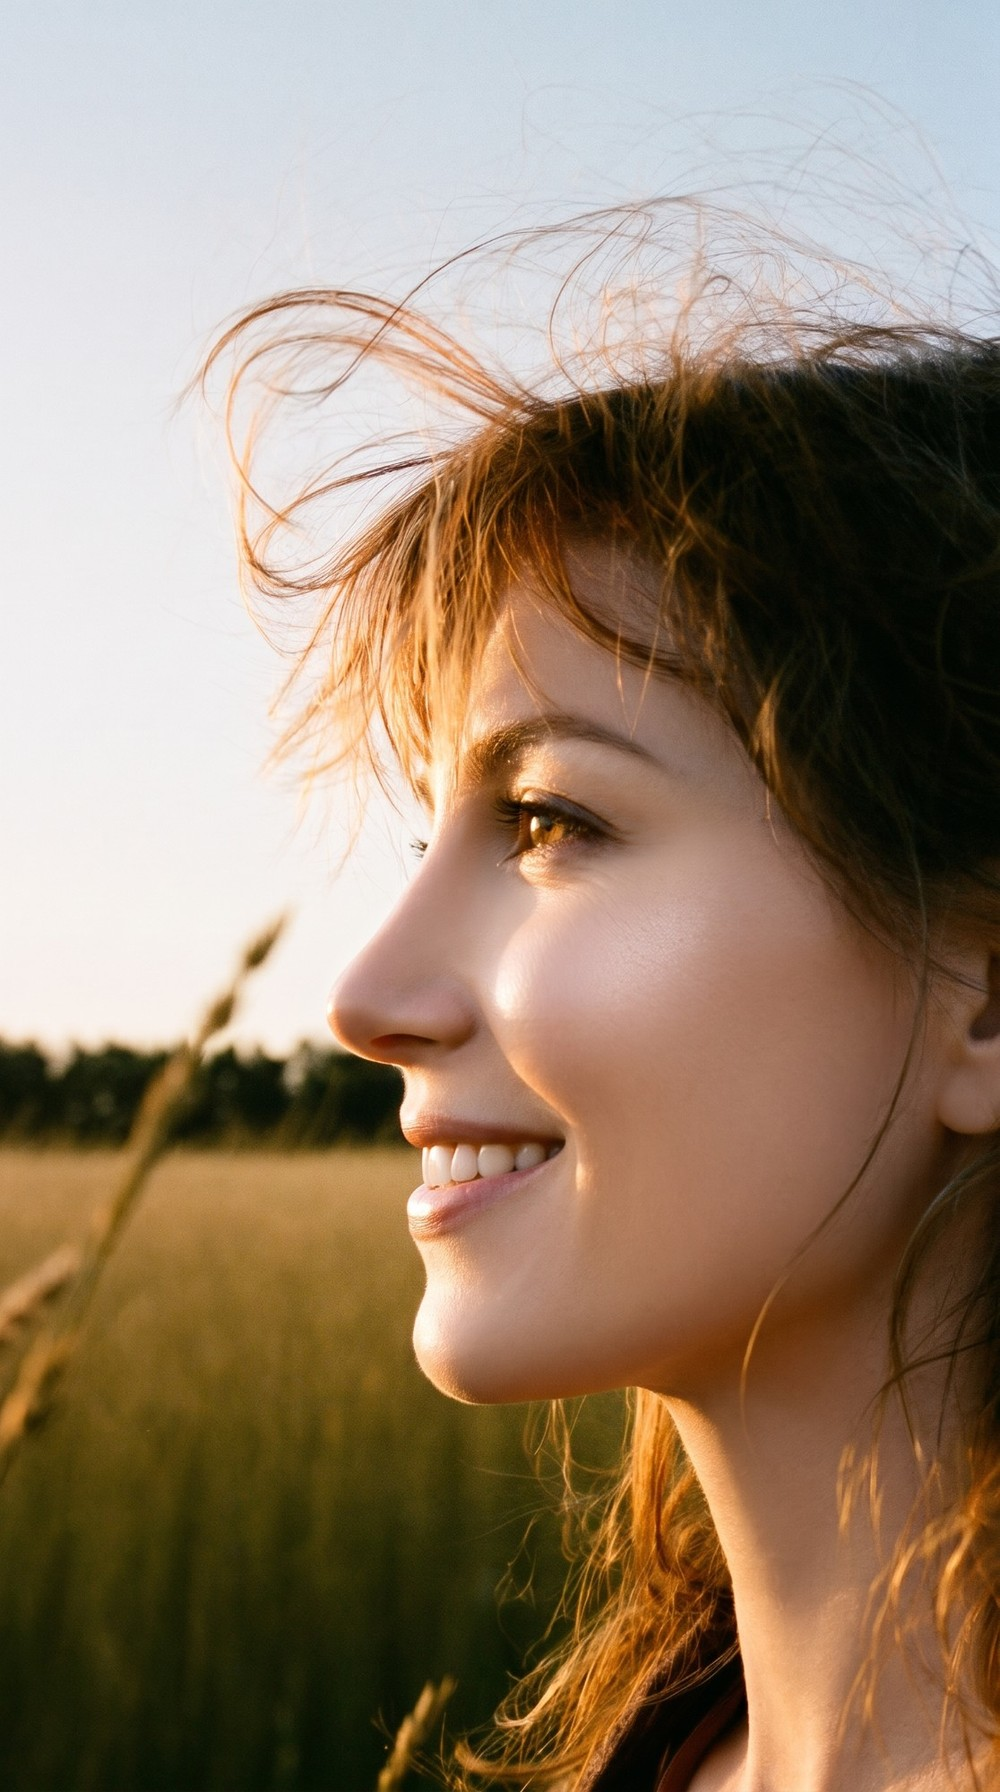
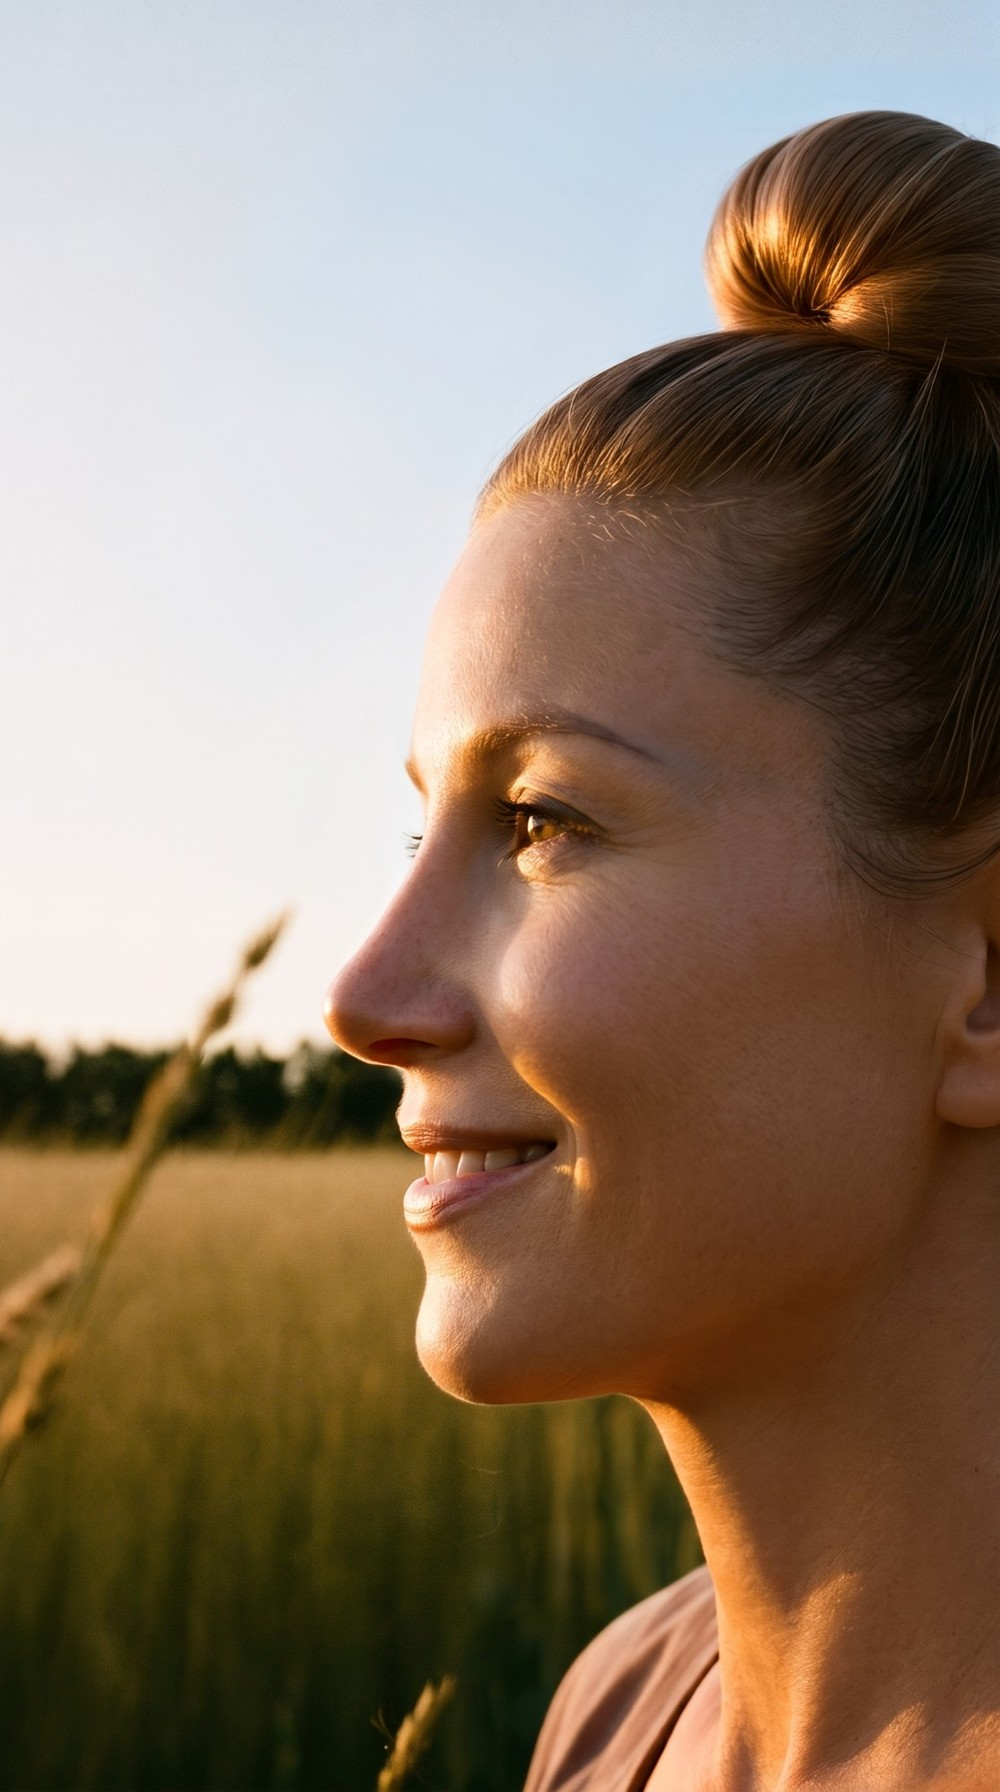
«Слишком AI»: новое «не ок» на слайде про пластик, новая пара на слайде про симметрию
Claude-Session: https://claude.ai/code/session_01V1NUh11xrVMcB1cs4GV2qz

diff --git a/carousels/promptica-too-ai/04.html b/carousels/promptica-too-ai/04.html
@@ -23,9 +23,9 @@
     <div class="tick" style="left: 548px; top: 322px;">50%</div>
     <div class="h title">Идеальная<br>симметри<span class="off">я</span></div>
     <div class="pair">
-      <div class="col bad"><div class="ph"><span class="badge">✕ не ок</span><div class="x"></div><div class="hint">фото: кадр<br>по линейке</div><img src="img/04-bad.jpg" style="object-position:50% 46%" alt="" onerror="this.remove()"></div>
+      <div class="col bad"><div class="ph"><span class="badge">✕ не ок</span><div class="x"></div><div class="hint">фото: кадр<br>по линейке</div><img src="img/04-bad.jpg" style="object-position:50% 40%" alt="" onerror="this.remove()"></div>
         <div class="cap"><div class="lbl">Ошибка</div><p class="txt">композиция выверена по линейке.</p></div></div>
-      <div class="col good"><div class="ph"><span class="badge">✓ ок</span><div class="x"></div><div class="hint">фото: лёгкий хаос,<br>живая композиция</div><img src="img/04-good.jpg" style="object-position:50% 46%" alt="" onerror="this.remove()"></div>
+      <div class="col good"><div class="ph"><span class="badge">✓ ок</span><div class="x"></div><div class="hint">фото: лёгкий хаос,<br>живая композиция</div><img src="img/04-good.jpg" style="object-position:50% 40%" alt="" onerror="this.remove()"></div>
         <div class="cap"><div class="lbl">Направление</div><p class="txt">в жизни так не бывает. Добавьте немного хаоса.</p></div></div>
     </div>
     <div class="note">чуть-чуть кривее</div>
